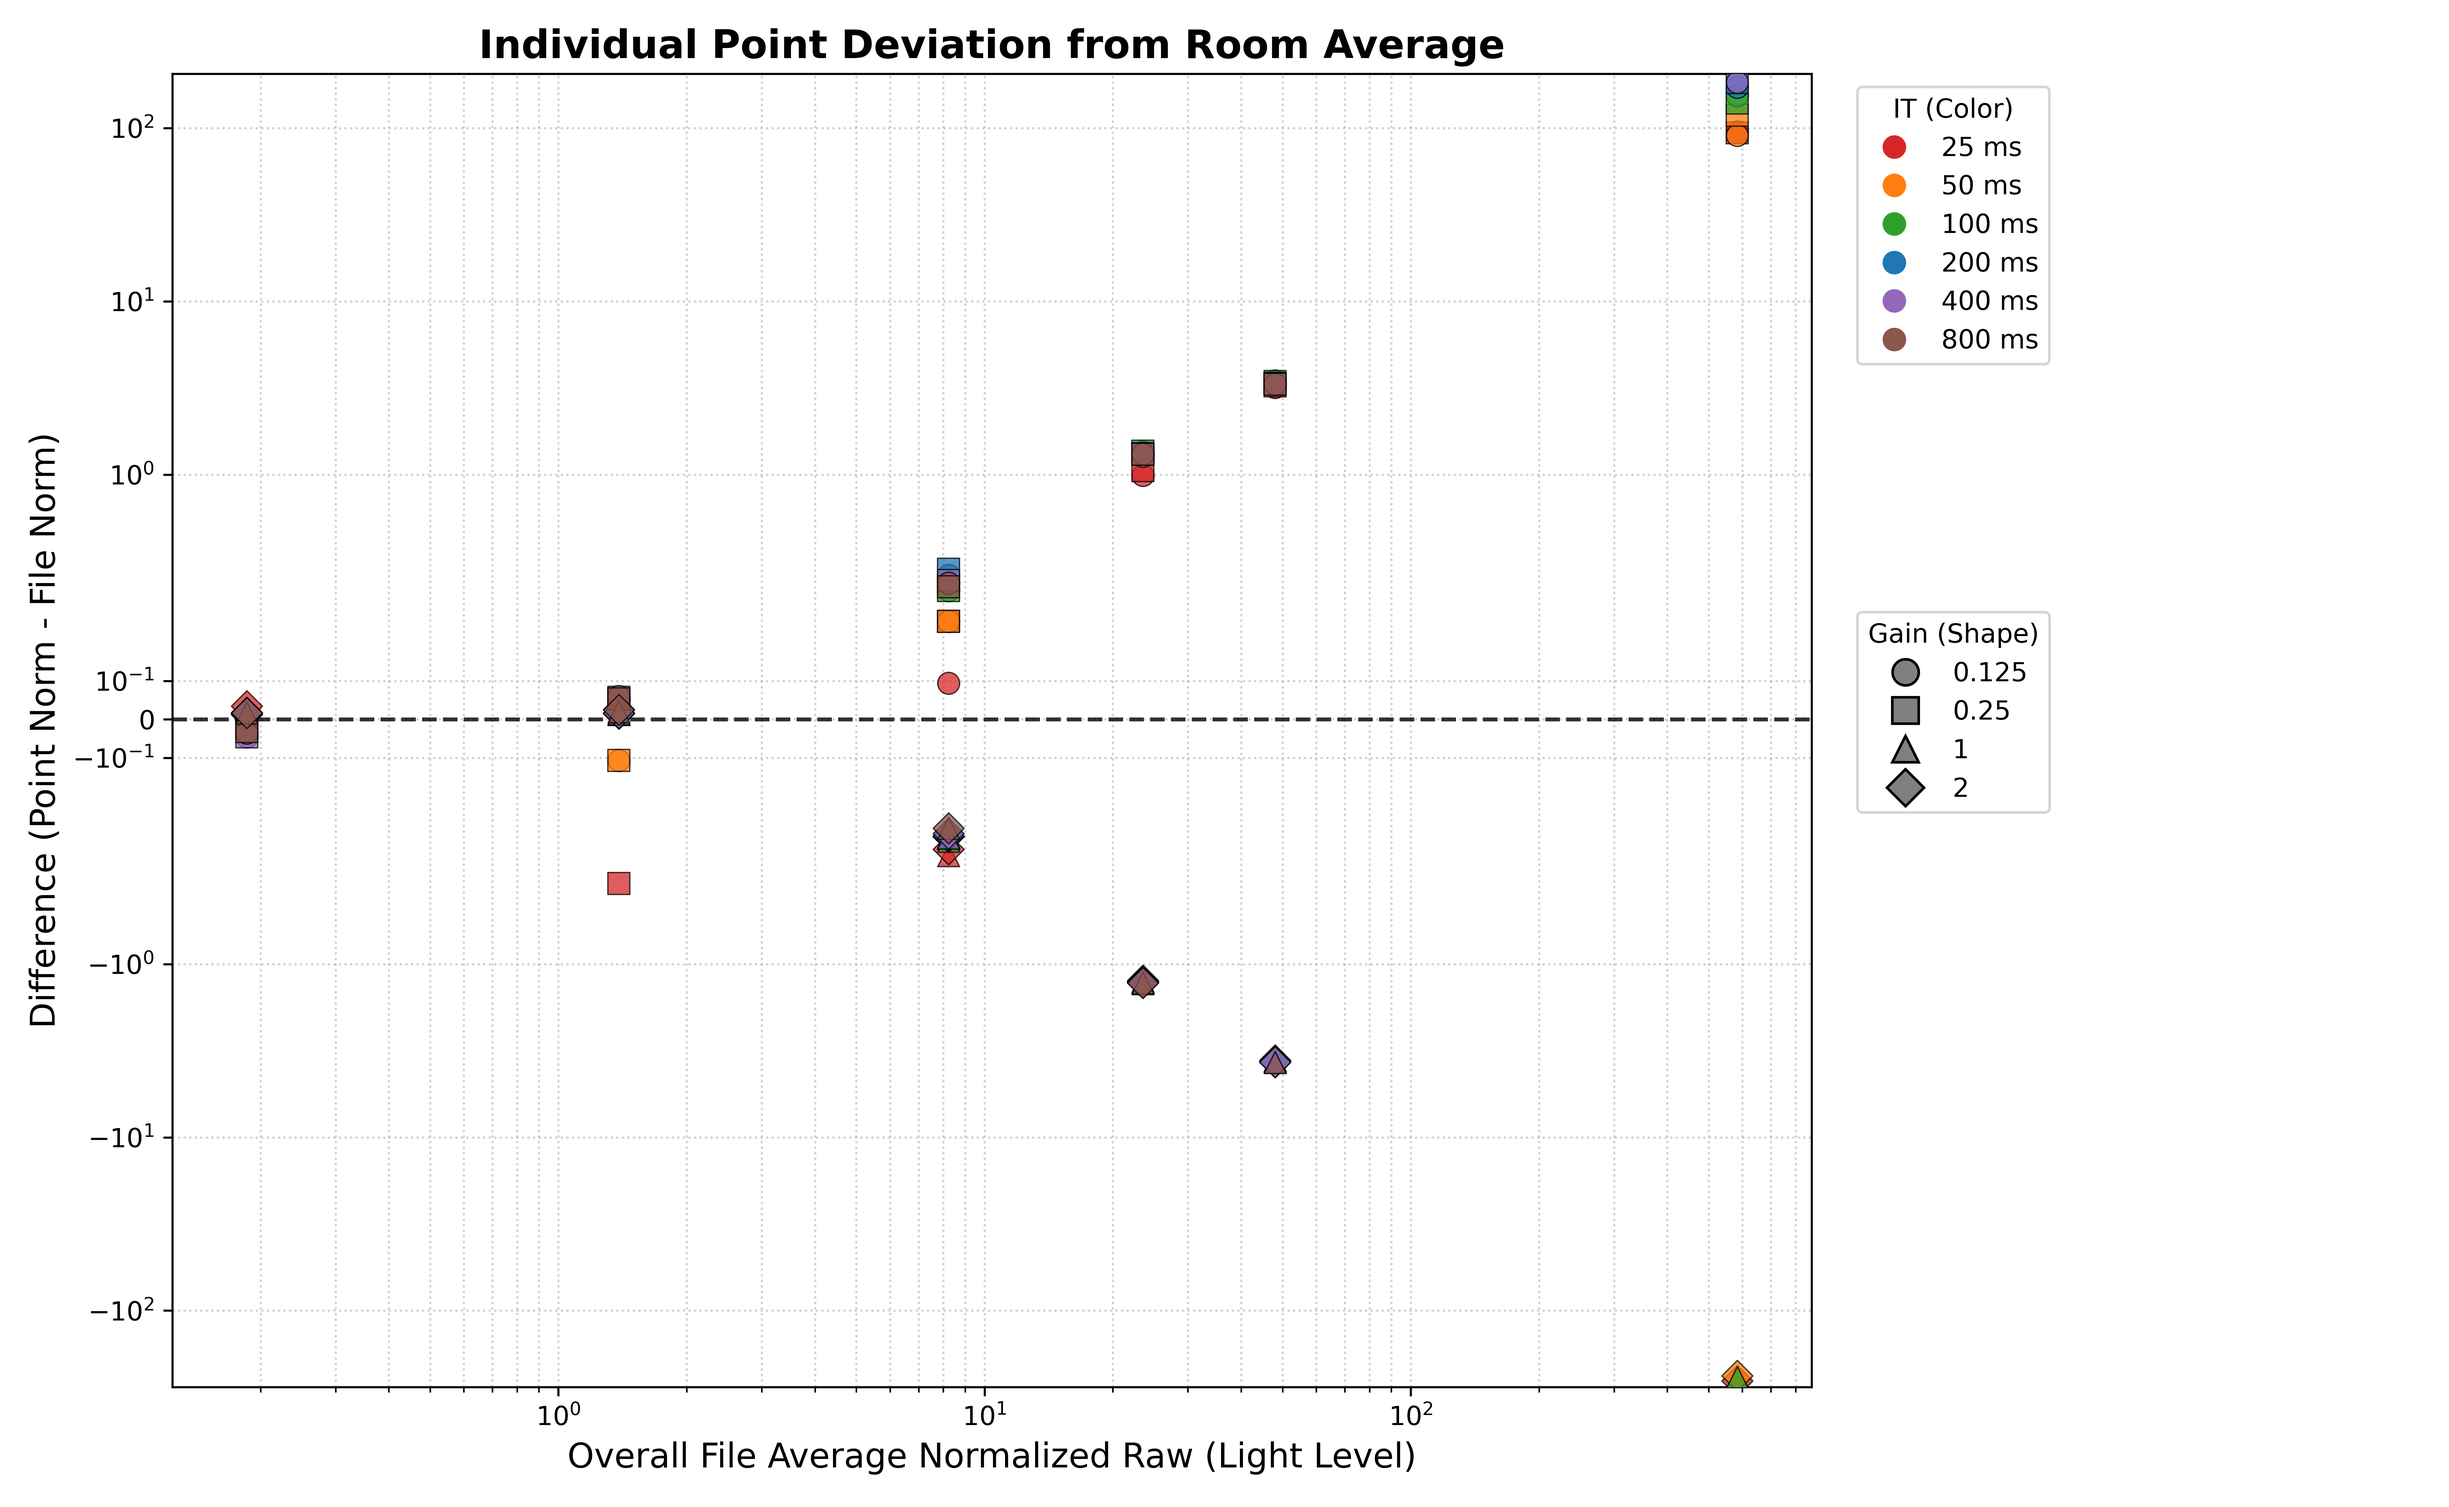
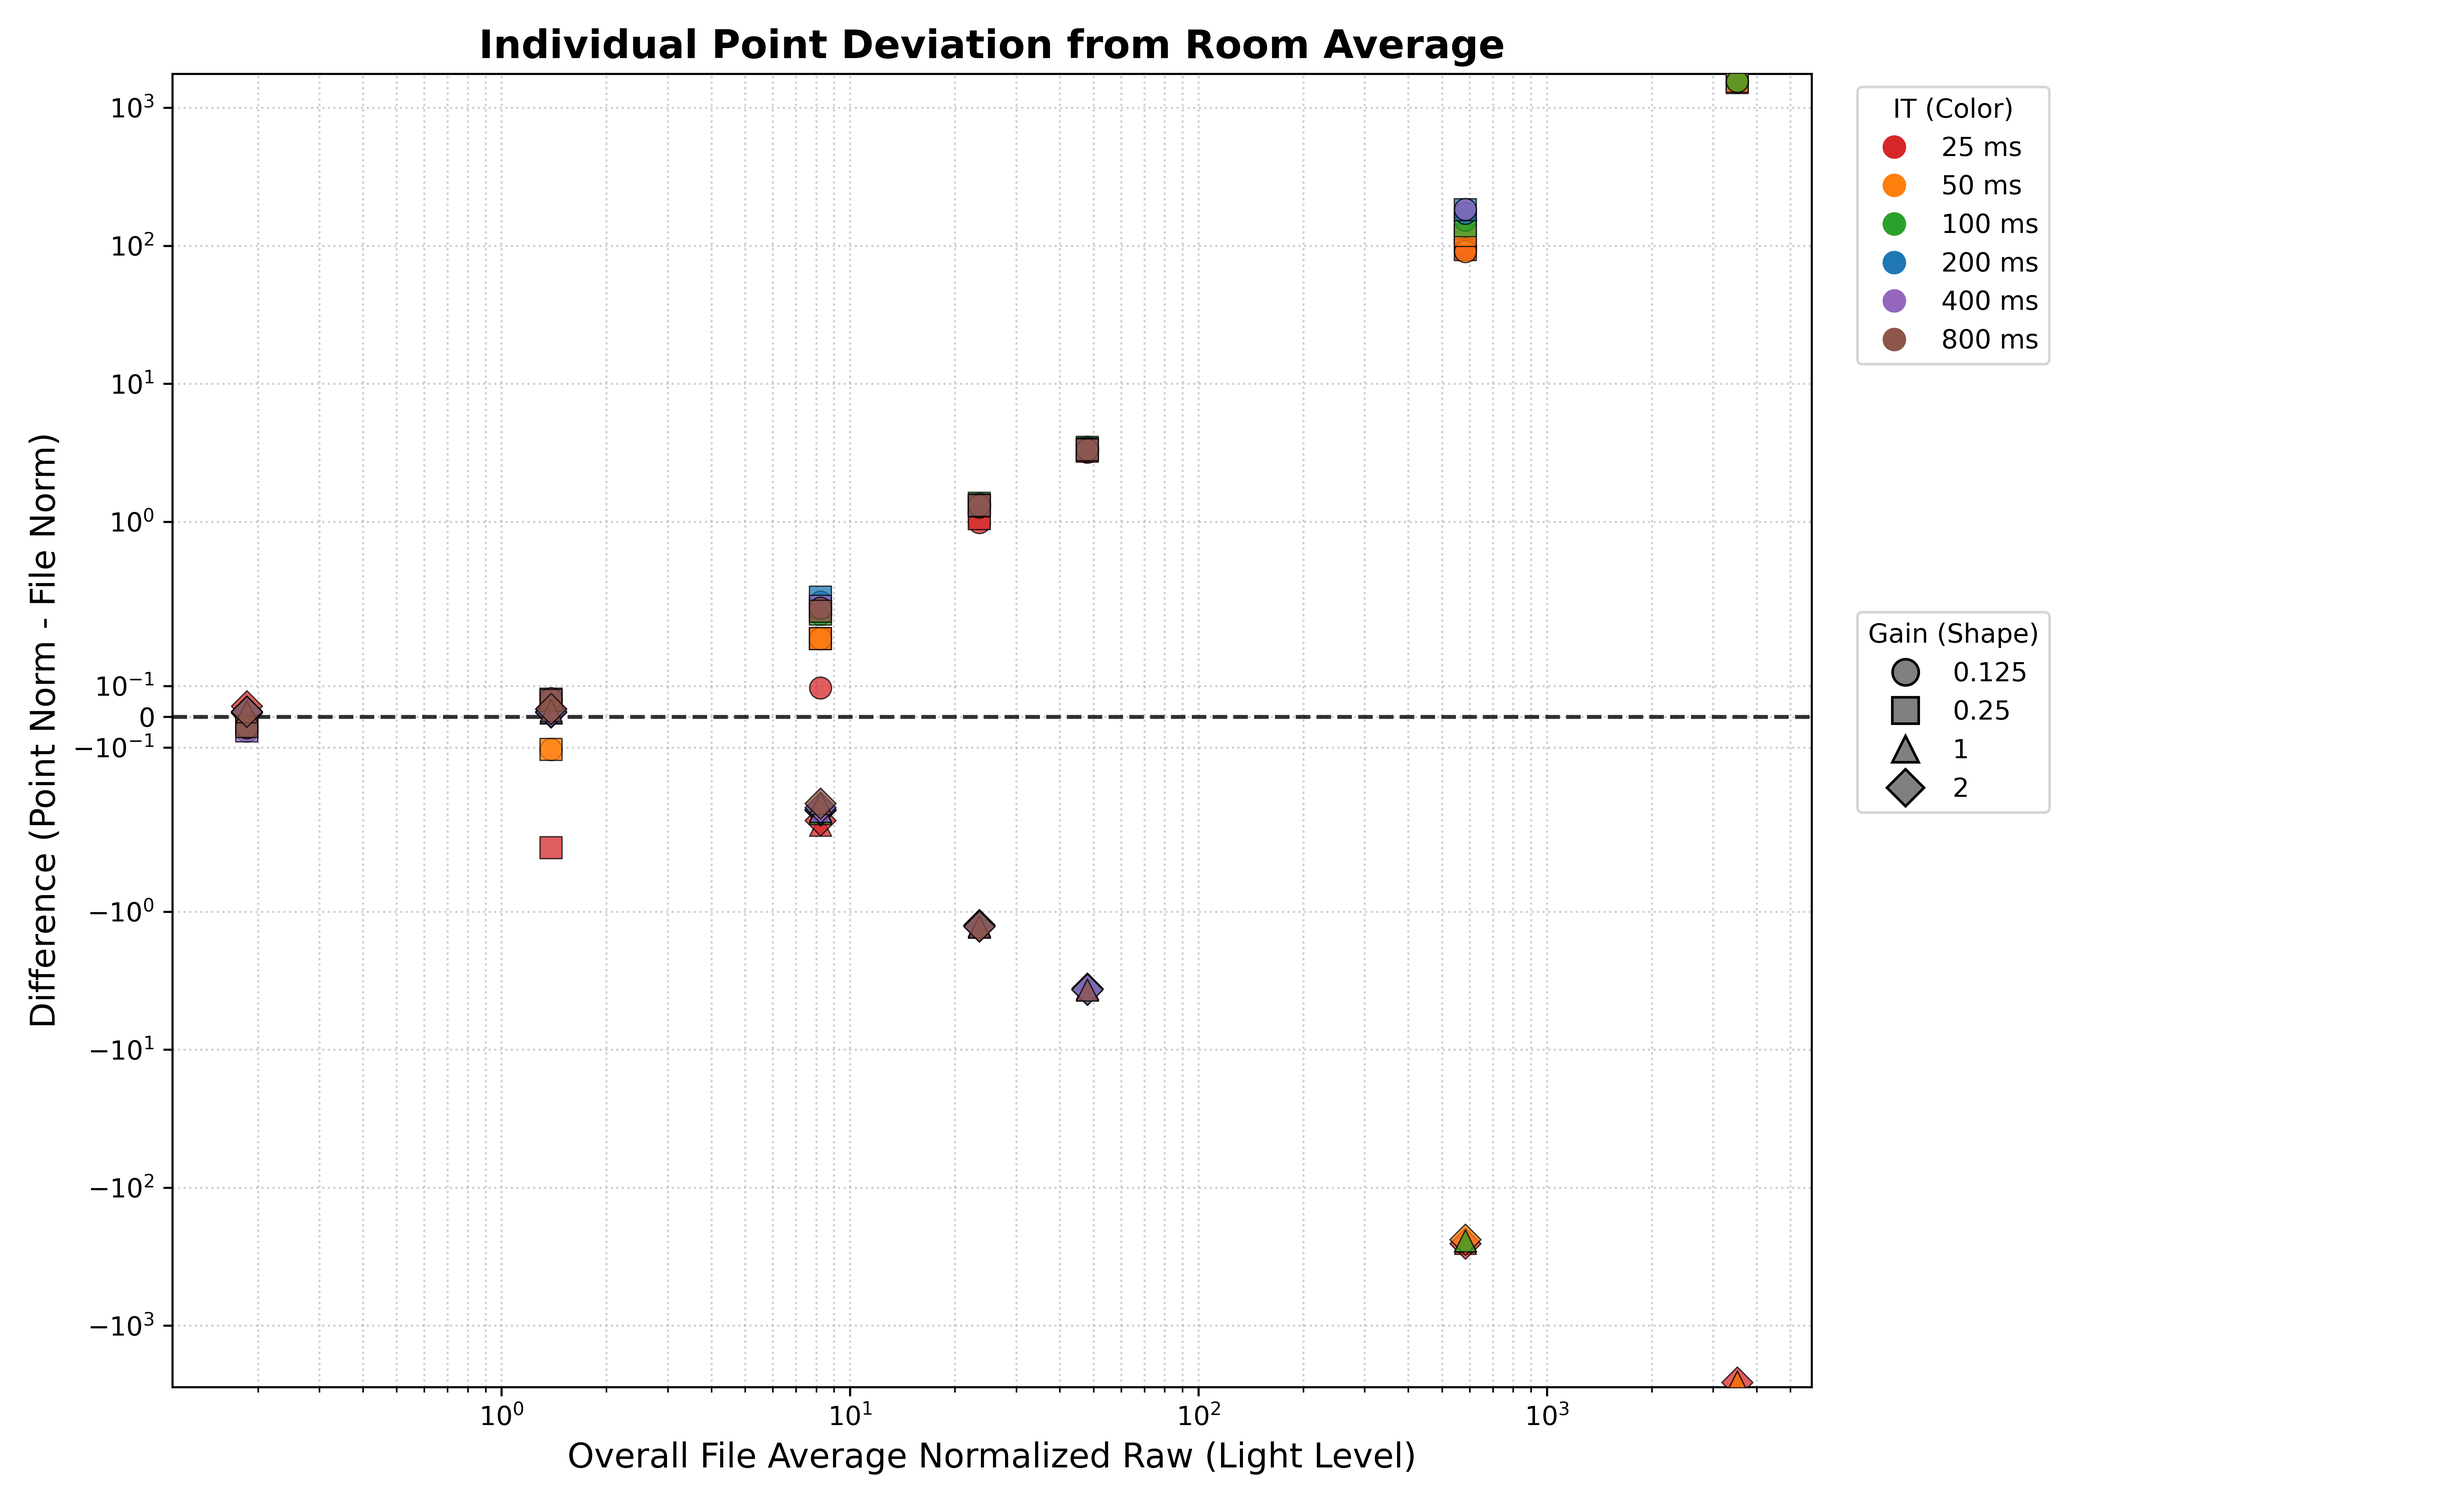
add new measurement

diff --git a/pc_process/plot_measurement_3d.py b/pc_process/plot_measurement_3d.py
@@ -96,4 +96,4 @@ def plot_and_save_by_id(id:int):
     plot_zoomed_3d_measurements(json_string, image_path)
 
 if __name__ == "__main__":
-    plot_and_save_by_id(4)
+    plot_and_save_by_id(7)

diff --git a/pc_process/plot_measurement_gain_error_2d_all_4x6.py b/pc_process/plot_measurement_gain_error_2d_all_4x6.py
@@ -83,4 +83,4 @@ def plot_and_save_by_id(id:int):
     plot_it_linearity(json_string, image_path)
 
 if __name__ == "__main__":
-    plot_and_save_by_id(4)
+    plot_and_save_by_id(7)
